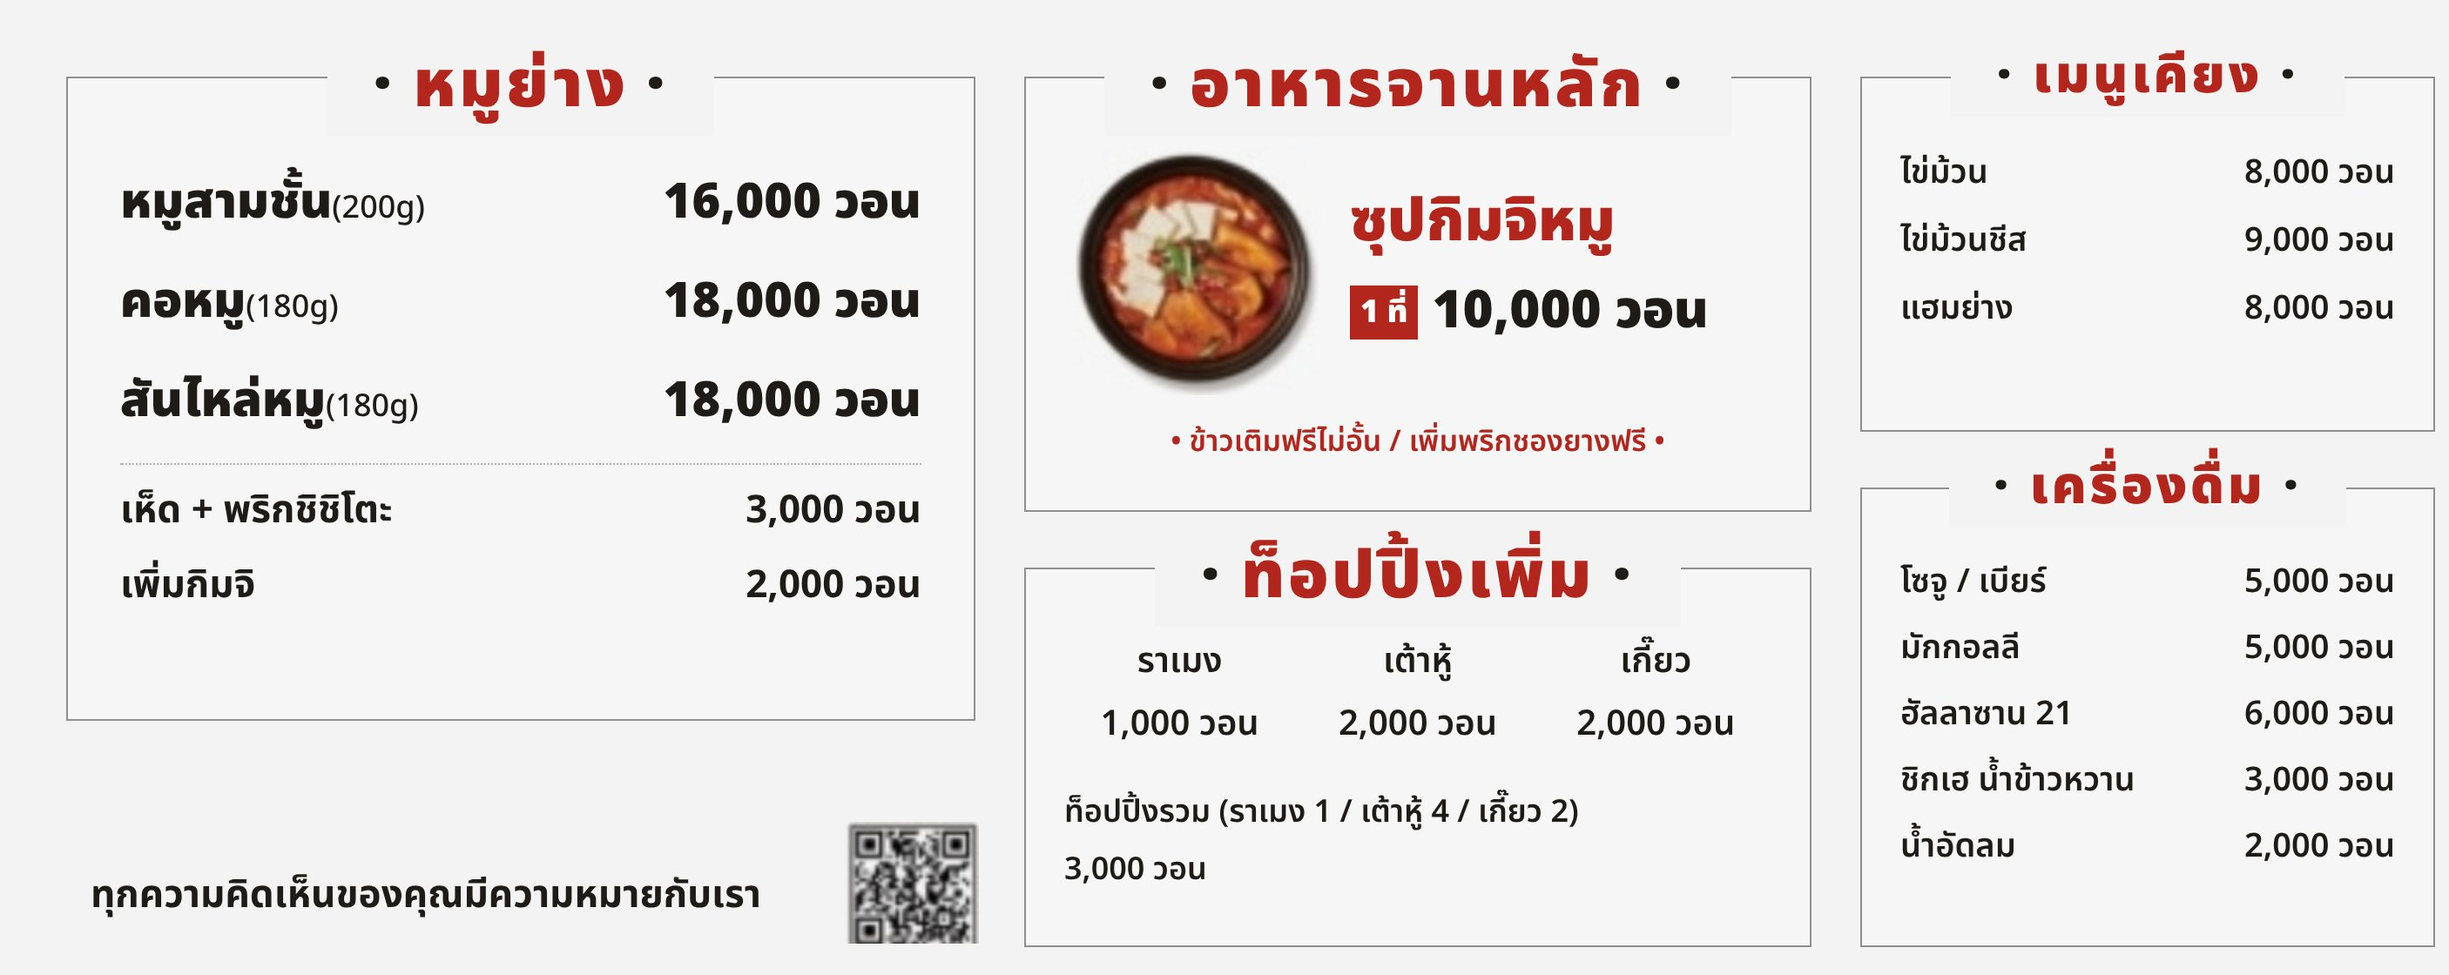
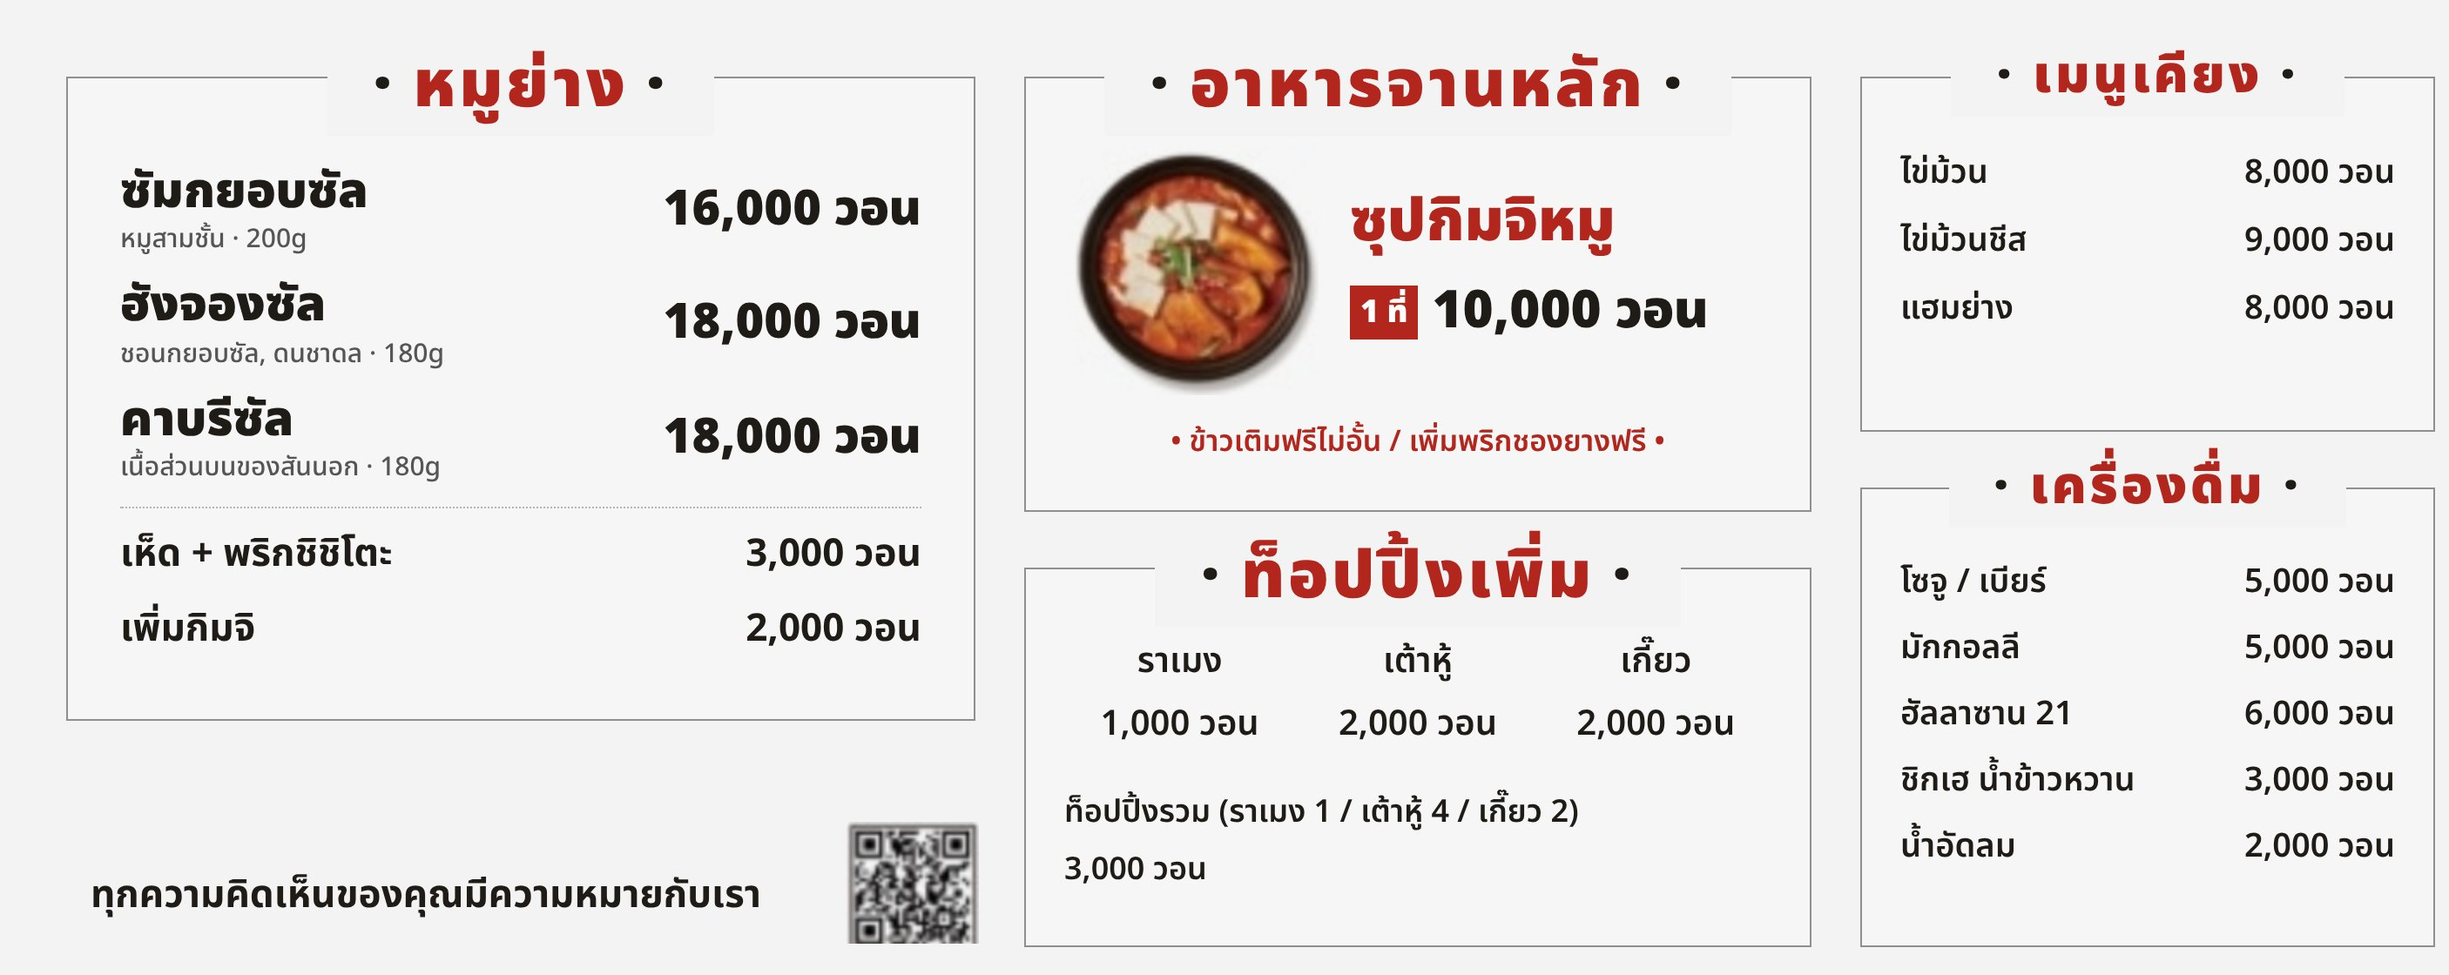
고기 이름: 한국식 발음 + 부위 설명(나라 말), 메뉴판·손님 주문 화면
Claude-Session: https://claude.ai/code/session_01CBZKrzwuzCBPBAMRFQdVMa

diff --git a/order.html b/order.html
@@ -23,11 +23,12 @@
 .sht{font-size:20px;font-weight:900;margin-bottom:6px}.cr{display:flex;justify-content:space-between;gap:10px;padding:9px 0;border-bottom:1px solid #eee7dd;font-size:15px}.cr small{display:block;color:#9a9288;font-size:12px}.cr .v{white-space:nowrap}.cr .v b{margin-right:10px}
 .ctot{display:flex;justify-content:space-between;font-size:21px;font-weight:900;margin:12px 0}.cbt{display:flex;gap:8px}.cbt button{flex:1;border:2px solid #1f1b16;border-radius:12px;padding:13px;font-weight:800;font-size:15px;font-family:inherit;background:#fff;color:#1f1b16}.cbt .cs{background:#1f1b16;color:#fff}
 .mrot{position:fixed;inset:0;background:#111;z-index:90}.mrot img{position:absolute;left:50%;top:50%;width:100vh;height:100vw;max-width:none;object-fit:contain;transform:translate(-50%,-50%) rotate(90deg)}.mrot button{position:absolute;right:10px;bottom:10px;background:#fff;color:#1f1b16;border:none;border-radius:12px;padding:10px 18px;font-weight:800;font-size:16px;font-family:inherit;z-index:2}
+.cut{display:block;font-style:normal;font-size:13px;color:#5a534b}
 .hwimg img{width:100%;display:block;margin-bottom:12px;border-radius:6px}
 .hw{border-bottom:1px solid #eee7dd;padding:14px 0}.hw b{display:block;font-size:17px;margin-bottom:6px}.hw div{white-space:pre-wrap;font-size:16px;line-height:1.6}
 </style></head><body><div class="app" id="app"></div><div class="bar" id="bar"></div>
 <script>
-var D={"en": {"nm": {"belly": "Pork belly (200g)", "jowl": "Pork jowl (180g)", "collar": "Pork collar (180g)", "mush": "Mushrooms + shishito peppers", "kim": "Extra kimchi", "stew": "Pork kimchi stew", "ramen": "Ramen", "tofu": "Tofu", "dump": "Dumplings", "combo": "Combo (ramen 1 / tofu 4 / dumplings 2)", "egg": "Rolled omelet", "cheese": "Cheese rolled omelet", "ham": "Grilled ham", "soju": "Soju / Beer", "makg": "Makgeolli (rice wine)", "halla": "Hallasan 21", "sik": "Sikhye (rice drink)", "soft": "Soft drinks"}, "title": ["Grilled Meat", "Meals", "Add-ons", "Side Dishes", "Drinks"], "ui": {"conf": "Confirm order", "cart": "My order", "edit": "Edit", "sel": "items", "tot": "Total", "show": "Show staff", "menu": "View menu", "how": "How to eat", "min": "Grilled meat: minimum 2 servings (you can mix cuts)", "minw": "Please order at least 2 servings of grilled meat", "close": "Close", "reset": "Clear all", "staff": "Please show this screen to our staff", "none": "Tap + to choose your food", "sub": "KRW"}, "note": "Free rice refills / Extra Cheongyang chili free", "one": "1 serving"}, "zh": {"nm": {"belly": "五花肉 (200g)", "jowl": "猪颈肉 (180g)", "collar": "猪肩胛肉 (180g)", "mush": "蘑菇 + 糯米椒", "kim": "加泡菜", "stew": "猪肉泡菜汤", "ramen": "拉面", "tofu": "豆腐", "dump": "饺子", "combo": "综合加料（拉面1份 / 豆腐4块 / 饺子2个）", "egg": "鸡蛋卷", "cheese": "芝士鸡蛋卷", "ham": "烤火腿", "soju": "烧酒 / 啤酒", "makg": "马格利米酒", "halla": "汉拿山21烧酒", "sik": "饭后甜米露", "soft": "饮料"}, "title": ["烤肉", "主食", "加料", "小菜", "酒水 / 饮料"], "ui": {"conf": "确认点单", "cart": "我的点单", "edit": "修改", "sel": "项", "tot": "合计", "show": "给店员看", "menu": "查看菜单", "how": "吃法说明", "min": "烤肉最少点2人份（可混合不同部位）", "minw": "烤肉请至少点2人份", "close": "关闭", "reset": "全部清空", "staff": "请把这个画面给店员看", "none": "点 + 选择菜品", "sub": "韩元"}, "note": "米饭无限续 / 青阳辣椒免费加", "one": "1人份"}, "ja": {"nm": {"belly": "サムギョプサル (200g)", "jowl": "豚トロ (180g)", "collar": "豚肩ロース (180g)", "mush": "きのこ + ししとう", "kim": "キムチ追加", "stew": "豚キムチチゲ", "ramen": "ラーメン", "tofu": "豆腐", "dump": "餃子", "combo": "盛り合わせ（ラーメン1 / 豆腐4 / 餃子2）", "egg": "韓国風卵焼き", "cheese": "チーズ卵焼き", "ham": "ハム焼き", "soju": "焼酎 / ビール", "makg": "マッコリ", "halla": "ハルラサン21", "sik": "食後のシッケ", "soft": "ソフトドリンク"}, "title": ["焼肉", "お食事", "追加トッピング", "サイド", "ドリンク"], "ui": {"conf": "注文を確認", "cart": "ご注文内容", "edit": "修正", "sel": "点", "tot": "合計", "show": "スタッフに見せる", "menu": "メニューを見る", "how": "食べ方", "min": "焼肉は2人前からご注文いただけます（部位の組み合わせ可）", "minw": "焼肉は2人前以上でご注文ください", "close": "閉じる", "reset": "すべてクリア", "staff": "この画面をスタッフにお見せください", "none": "＋を押して選んでください", "sub": "ウォン"}, "note": "ご飯おかわり自由 / 青陽唐辛子の追加無料", "one": "1人前"}, "th": {"nm": {"belly": "หมูสามชั้น (200g)", "jowl": "คอหมู (180g)", "collar": "สันไหล่หมู (180g)", "mush": "เห็ด + พริกชิชิโตะ", "kim": "เพิ่มกิมจิ", "stew": "ซุปกิมจิหมู", "ramen": "ราเมง", "tofu": "เต้าหู้", "dump": "เกี๊ยว", "combo": "ท็อปปิ้งรวม (ราเมง 1 / เต้าหู้ 4 / เกี๊ยว 2)", "egg": "ไข่ม้วน", "cheese": "ไข่ม้วนชีส", "ham": "แฮมย่าง", "soju": "โซจู / เบียร์", "makg": "มักกอลลี", "halla": "ฮัลลาซาน 21", "sik": "ชิกเฮ น้ำข้าวหวาน", "soft": "น้ำอัดลม"}, "title": ["หมูย่าง", "อาหารจานหลัก", "ท็อปปิ้งเพิ่ม", "เมนูเคียง", "เครื่องดื่ม"], "ui": {"conf": "ยืนยันรายการ", "cart": "รายการของฉัน", "edit": "แก้ไข", "sel": "รายการ", "tot": "รวม", "show": "แสดงให้พนักงานดู", "menu": "ดูเมนู", "how": "วิธีทาน", "min": "หมูย่างสั่งขั้นต่ำ 2 ที่ (เลือกผสมได้)", "minw": "กรุณาสั่งหมูย่างอย่างน้อย 2 ที่", "close": "ปิด", "reset": "ล้างทั้งหมด", "staff": "กรุณาแสดงหน้านี้ให้พนักงานดู", "none": "กด + เพื่อเลือกอาหาร", "sub": "วอน"}, "note": "ข้าวเติมฟรีไม่อั้น / เพิ่มพริกชองยางฟรี", "one": "1 ที่"}};var G=[["bbq", 0, [["belly", "삼겹살 (200g)", 16000], ["jowl", "항정살 (180g)", 18000], ["collar", "가브리살 (180g)", 18000], ["mush", "버섯 + 꽈리고추", 3000], ["kim", "김치 추가", 2000]]], ["meal", 1, [["stew", "돼지김치찌개 (1인)", 10000]]], ["add", 2, [["ramen", "라면사리", 1000], ["tofu", "두부사리", 2000], ["dump", "만두사리", 2000], ["combo", "모둠사리", 3000]]], ["side", 3, [["egg", "달걀말이", 8000], ["cheese", "치즈달걀말이", 9000], ["ham", "햄구이", 8000]]], ["drink", 4, [["soju", "소주 / 맥주", 5000], ["makg", "막걸리", 5000], ["halla", "한라산21", 6000], ["sik", "식후식혜", 3000], ["soft", "음료", 2000]]]];
+var D={"en": {"cut": {"belly": "pork belly · 200g", "jowl": "aka Cheongyeopsal, Donchadol · 180g", "collar": "pork loin cover · 180g"}, "nm": {"belly": "Samgyeopsal", "jowl": "Hangjeongsal", "collar": "Gabrisal", "mush": "Mushrooms + shishito peppers", "kim": "Extra kimchi", "stew": "Pork kimchi stew", "ramen": "Ramen", "tofu": "Tofu", "dump": "Dumplings", "combo": "Combo (ramen 1 / tofu 4 / dumplings 2)", "egg": "Rolled omelet", "cheese": "Cheese rolled omelet", "ham": "Grilled ham", "soju": "Soju / Beer", "makg": "Makgeolli (rice wine)", "halla": "Hallasan 21", "sik": "Sikhye (rice drink)", "soft": "Soft drinks"}, "title": ["Grilled Meat", "Meals", "Add-ons", "Side Dishes", "Drinks"], "ui": {"conf": "Confirm order", "cart": "My order", "edit": "Edit", "sel": "items", "tot": "Total", "show": "Show staff", "menu": "View menu", "how": "How to eat", "min": "Grilled meat: minimum 2 servings (you can mix cuts)", "minw": "Please order at least 2 servings of grilled meat", "close": "Close", "reset": "Clear all", "staff": "Please show this screen to our staff", "none": "Tap + to choose your food", "sub": "KRW"}, "note": "Free rice refills / Extra Cheongyang chili free", "one": "1 serving"}, "zh": {"cut": {"belly": "五花肉 · 200g", "jowl": "千层肉 · 猪雪花肉 · 180g", "collar": "猪里脊盖肉 · 180g"}, "nm": {"belly": "三格扑萨", "jowl": "杭正萨", "collar": "加布里萨", "mush": "蘑菇 + 糯米椒", "kim": "加泡菜", "stew": "猪肉泡菜汤", "ramen": "拉面", "tofu": "豆腐", "dump": "饺子", "combo": "综合加料（拉面1份 / 豆腐4块 / 饺子2个）", "egg": "鸡蛋卷", "cheese": "芝士鸡蛋卷", "ham": "烤火腿", "soju": "烧酒 / 啤酒", "makg": "马格利米酒", "halla": "汉拿山21烧酒", "sik": "饭后甜米露", "soft": "饮料"}, "title": ["烤肉", "主食", "加料", "小菜", "酒水 / 饮料"], "ui": {"conf": "确认点单", "cart": "我的点单", "edit": "修改", "sel": "项", "tot": "合计", "show": "给店员看", "menu": "查看菜单", "how": "吃法说明", "min": "烤肉最少点2人份（可混合不同部位）", "minw": "烤肉请至少点2人份", "close": "关闭", "reset": "全部清空", "staff": "请把这个画面给店员看", "none": "点 + 选择菜品", "sub": "韩元"}, "note": "米饭无限续 / 青阳辣椒免费加", "one": "1人份"}, "ja": {"cut": {"belly": "豚バラ肉 · 200g", "jowl": "別名 トンチャドル · 180g", "collar": "豚ロースのかぶり肉 · 180g"}, "nm": {"belly": "サムギョプサル", "jowl": "ハンジョンサル", "collar": "カブリサル", "mush": "きのこ + ししとう", "kim": "キムチ追加", "stew": "豚キムチチゲ", "ramen": "ラーメン", "tofu": "豆腐", "dump": "餃子", "combo": "盛り合わせ（ラーメン1 / 豆腐4 / 餃子2）", "egg": "韓国風卵焼き", "cheese": "チーズ卵焼き", "ham": "ハム焼き", "soju": "焼酎 / ビール", "makg": "マッコリ", "halla": "ハルラサン21", "sik": "食後のシッケ", "soft": "ソフトドリンク"}, "title": ["焼肉", "お食事", "追加トッピング", "サイド", "ドリンク"], "ui": {"conf": "注文を確認", "cart": "ご注文内容", "edit": "修正", "sel": "点", "tot": "合計", "show": "スタッフに見せる", "menu": "メニューを見る", "how": "食べ方", "min": "焼肉は2人前からご注文いただけます（部位の組み合わせ可）", "minw": "焼肉は2人前以上でご注文ください", "close": "閉じる", "reset": "すべてクリア", "staff": "この画面をスタッフにお見せください", "none": "＋を押して選んでください", "sub": "ウォン"}, "note": "ご飯おかわり自由 / 青陽唐辛子の追加無料", "one": "1人前"}, "th": {"cut": {"belly": "หมูสามชั้น · 200g", "jowl": "ชอนกยอบซัล, ดนชาดล · 180g", "collar": "เนื้อส่วนบนของสันนอก · 180g"}, "nm": {"belly": "ซัมกยอบซัล", "jowl": "ฮังจองซัล", "collar": "คาบรีซัล", "mush": "เห็ด + พริกชิชิโตะ", "kim": "เพิ่มกิมจิ", "stew": "ซุปกิมจิหมู", "ramen": "ราเมง", "tofu": "เต้าหู้", "dump": "เกี๊ยว", "combo": "ท็อปปิ้งรวม (ราเมง 1 / เต้าหู้ 4 / เกี๊ยว 2)", "egg": "ไข่ม้วน", "cheese": "ไข่ม้วนชีส", "ham": "แฮมย่าง", "soju": "โซจู / เบียร์", "makg": "มักกอลลี", "halla": "ฮัลลาซาน 21", "sik": "ชิกเฮ น้ำข้าวหวาน", "soft": "น้ำอัดลม"}, "title": ["หมูย่าง", "อาหารจานหลัก", "ท็อปปิ้งเพิ่ม", "เมนูเคียง", "เครื่องดื่ม"], "ui": {"conf": "ยืนยันรายการ", "cart": "รายการของฉัน", "edit": "แก้ไข", "sel": "รายการ", "tot": "รวม", "show": "แสดงให้พนักงานดู", "menu": "ดูเมนู", "how": "วิธีทาน", "min": "หมูย่างสั่งขั้นต่ำ 2 ที่ (เลือกผสมได้)", "minw": "กรุณาสั่งหมูย่างอย่างน้อย 2 ที่", "close": "ปิด", "reset": "ล้างทั้งหมด", "staff": "กรุณาแสดงหน้านี้ให้พนักงานดู", "none": "กด + เพื่อเลือกอาหาร", "sub": "วอน"}, "note": "ข้าวเติมฟรีไม่อั้น / เพิ่มพริกชองยางฟรี", "one": "1 ที่"}};var G=[["bbq", 0, [["belly", "삼겹살 (200g)", 16000], ["jowl", "항정살 (180g)", 18000], ["collar", "가브리살 (180g)", 18000], ["mush", "버섯 + 꽈리고추", 3000], ["kim", "김치 추가", 2000]]], ["meal", 1, [["stew", "돼지김치찌개 (1인)", 10000]]], ["add", 2, [["ramen", "라면사리", 1000], ["tofu", "두부사리", 2000], ["dump", "만두사리", 2000], ["combo", "모둠사리", 3000]]], ["side", 3, [["egg", "달걀말이", 8000], ["cheese", "치즈달걀말이", 9000], ["ham", "햄구이", 8000]]], ["drink", 4, [["soju", "소주 / 맥주", 5000], ["makg", "막걸리", 5000], ["halla", "한라산21", 6000], ["sik", "식후식혜", 3000], ["soft", "음료", 2000]]]];
 var TR_LANGS=[['en','영어'],['zh','중국어'],['ja','일본어'],['th','태국어']];
 var TR_SUB={en:'English',zh:'中文',ja:'日本語',th:'ภาษาไทย'};
 var TRANS=[
@@ -57,13 +58,13 @@ var PR={},KO={};G.forEach(function(g){g[2].forEach(function(it){PR[it[0]]=it[2];
 var MEAT=['belly','jowl','collar'];
 function meatN(){return MEAT.reduce(function(a,k){return a+(Q[k]||0)},0)}
 function render(){var d=D[lang],u=d.ui;document.documentElement.lang=lang;
- var h='<div class="top">BAEKCHAE <small>백채 김치찌개</small></div><div class="tb">'+TR_LANGS.map(function(l){return '<button class="'+(lang===l[0]?'on':'')+'" data-l="'+l[0]+'">'+TR_SUB[l[0]]+'</button>'}).join('')+'</div>';
+ var h='<div class="top">BAEKCHAE <small translate="no">백채 김치찌개</small></div><div class="tb">'+TR_LANGS.map(function(l){return '<button class="'+(lang===l[0]?'on':'')+'" data-l="'+l[0]+'">'+TR_SUB[l[0]]+'</button>'}).join('')+'</div>';
  h+='<div class="btns"><button id="bm">'+u.menu+'</button><button id="bh">'+u.how+'</button></div>';
  G.forEach(function(g){h+='<div class="cd"><h3>'+esc(d.title[g[1]])+'</h3>';
   if(g[0]==='bbq'){var mn=meatN();h+='<div class="min'+(mn===1?' bad':'')+'">'+esc(u.min)+'</div>'}
   if(g[0]==='meal')h+='<div class="nt">'+esc(d.note)+'</div>';
   g[2].forEach(function(it){var id=it[0],n=Q[id]||0;
-   h+='<div class="r">'+(id==='stew'?'<img src="menu/jjigae.png" alt="">':'')+'<span class="n">'+esc(d.nm[id])+(id==='stew'?' · '+esc(d.one):'')+'<small>'+esc(it[1])+'</small></span><span class="p">'+won(it[2])+'</span><span class="q"><button data-m="'+id+'">−</button><b>'+n+'</b><button class="'+(n?'on':'')+'" data-p="'+id+'">+</button></span></div>'});
+   h+='<div class="r">'+(id==='stew'?'<img src="menu/jjigae.png" alt="">':'')+'<span class="n">'+esc(d.nm[id])+(id==='stew'?' · '+esc(d.one):'')+(d.cut[id]?'<i class="cut">'+esc(d.cut[id])+'</i>':'')+'<small translate="no">'+esc(it[1])+'</small></span><span class="p">'+won(it[2])+'</span><span class="q"><button data-m="'+id+'">−</button><b>'+n+'</b><button class="'+(n?'on':'')+'" data-p="'+id+'">+</button></span></div>'});
   h+='</div>'});
  h+='<div style="text-align:center;margin:10px 0"><button id="br" style="border:none;background:none;color:#7a7268;text-decoration:underline;font-family:inherit;font-size:13px">'+u.reset+'</button></div>';
  document.getElementById('app').innerHTML=h;
@@ -82,13 +83,13 @@ function bind(){
  var bs=document.getElementById('bs');if(bs)bs.onclick=cart;
 }
 function cart(){var u=D[lang].ui,d=D[lang],sum=0,cnt=0;
- var rows=Object.keys(PR).filter(function(k){return Q[k]}).map(function(k){sum+=Q[k]*PR[k];cnt+=Q[k];return '<div class="cr"><span>'+esc(d.nm[k])+'<small>'+esc(KO[k])+'</small></span><span class="v"><b>× '+Q[k]+'</b>'+won(Q[k]*PR[k])+'</span></div>'}).join('');
+ var rows=Object.keys(PR).filter(function(k){return Q[k]}).map(function(k){sum+=Q[k]*PR[k];cnt+=Q[k];return '<div class="cr"><span>'+esc(d.nm[k])+(d.cut[k]?' <i class="cut">'+esc(d.cut[k])+'</i>':'')+'<small translate="no">'+esc(KO[k])+'</small></span><span class="v"><b>× '+Q[k]+'</b>'+won(Q[k]*PR[k])+'</span></div>'}).join('');
  var o=document.createElement('div');o.className='sh';
  o.innerHTML='<div class="shd"></div><div class="shb"><div class="sht">'+esc(u.cart)+' ('+cnt+')</div>'+rows+'<div class="ctot"><span>'+u.tot+'</span><span>'+won(sum)+'</span></div><div class="cbt"><button class="ce">'+esc(u.edit)+'</button><button class="cs">'+esc(u.show)+'</button></div></div>';
  document.body.appendChild(o);o.querySelector('.shd').onclick=o.querySelector('.ce').onclick=function(){o.remove()};
  o.querySelector('.cs').onclick=function(){o.remove();staff()};}
 function staff(){var u=D[lang].ui,sum=0;
-  var rows=Object.keys(PR).filter(function(k){return Q[k]}).map(function(k){sum+=Q[k]*PR[k];return '<div class="ol"><div><div class="k">'+esc(KO[k])+'</div><div class="f">'+esc(D[lang].nm[k])+'</div></div><div class="x">× '+Q[k]+'</div></div>'}).join('');
-  ov('<div style="background:#1f1b16;color:#fff;border-radius:12px;padding:12px 14px;margin-bottom:6px"><div style="font-size:20px;font-weight:900">직원 확인용 · 주문 내역</div><div style="font-size:13px;opacity:.8;margin-top:2px">'+esc(u.staff)+'</div></div>'+rows+'<div class="otot"><span>합계'+(lang?' · '+u.tot:'')+'</span><span>'+sum.toLocaleString('ko-KR')+'원</span></div>')}
+  var rows=Object.keys(PR).filter(function(k){return Q[k]}).map(function(k){sum+=Q[k]*PR[k];return '<div class="ol"><div><div class="k" translate="no">'+esc(KO[k])+'</div><div class="f">'+esc(D[lang].nm[k])+'</div></div><div class="x">× '+Q[k]+'</div></div>'}).join('');
+  ov('<div style="background:#1f1b16;color:#fff;border-radius:12px;padding:12px 14px;margin-bottom:6px"><div translate="no" style="font-size:20px;font-weight:900">직원 확인용 · 주문 내역</div><div style="font-size:13px;opacity:.8;margin-top:2px">'+esc(u.staff)+'</div></div>'+rows+'<div class="otot"><span>합계'+(lang?' · '+u.tot:'')+'</span><span>'+sum.toLocaleString('ko-KR')+'원</span></div>')}
 render();
 </script></body></html>
